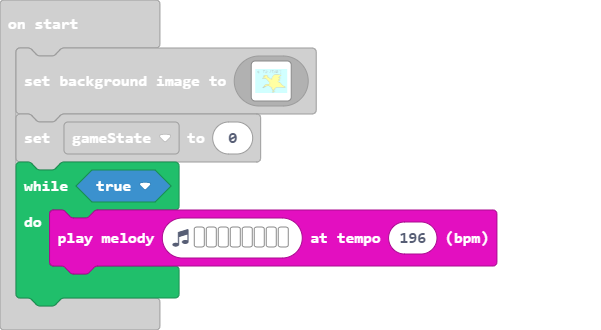
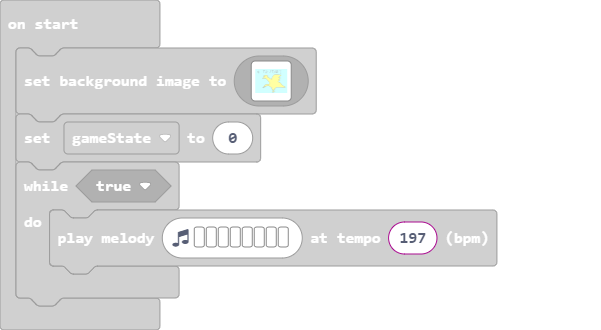
Added music to start menu

Changed region(s): [[0.0, 0.4848, 0.8386, 0.9394]]

diff --git a/main.ts b/main.ts
@@ -338,7 +338,7 @@ scene.setBackgroundImage(img`
     `)
 gameState = 0
 while (true) {
-    music.playMelody("E B C5 A B G A F ", 196)
+    music.playMelody("E B C5 A B G A F ", 197)
 }
 game.onUpdate(function () {
     if (gameState == 1) {
